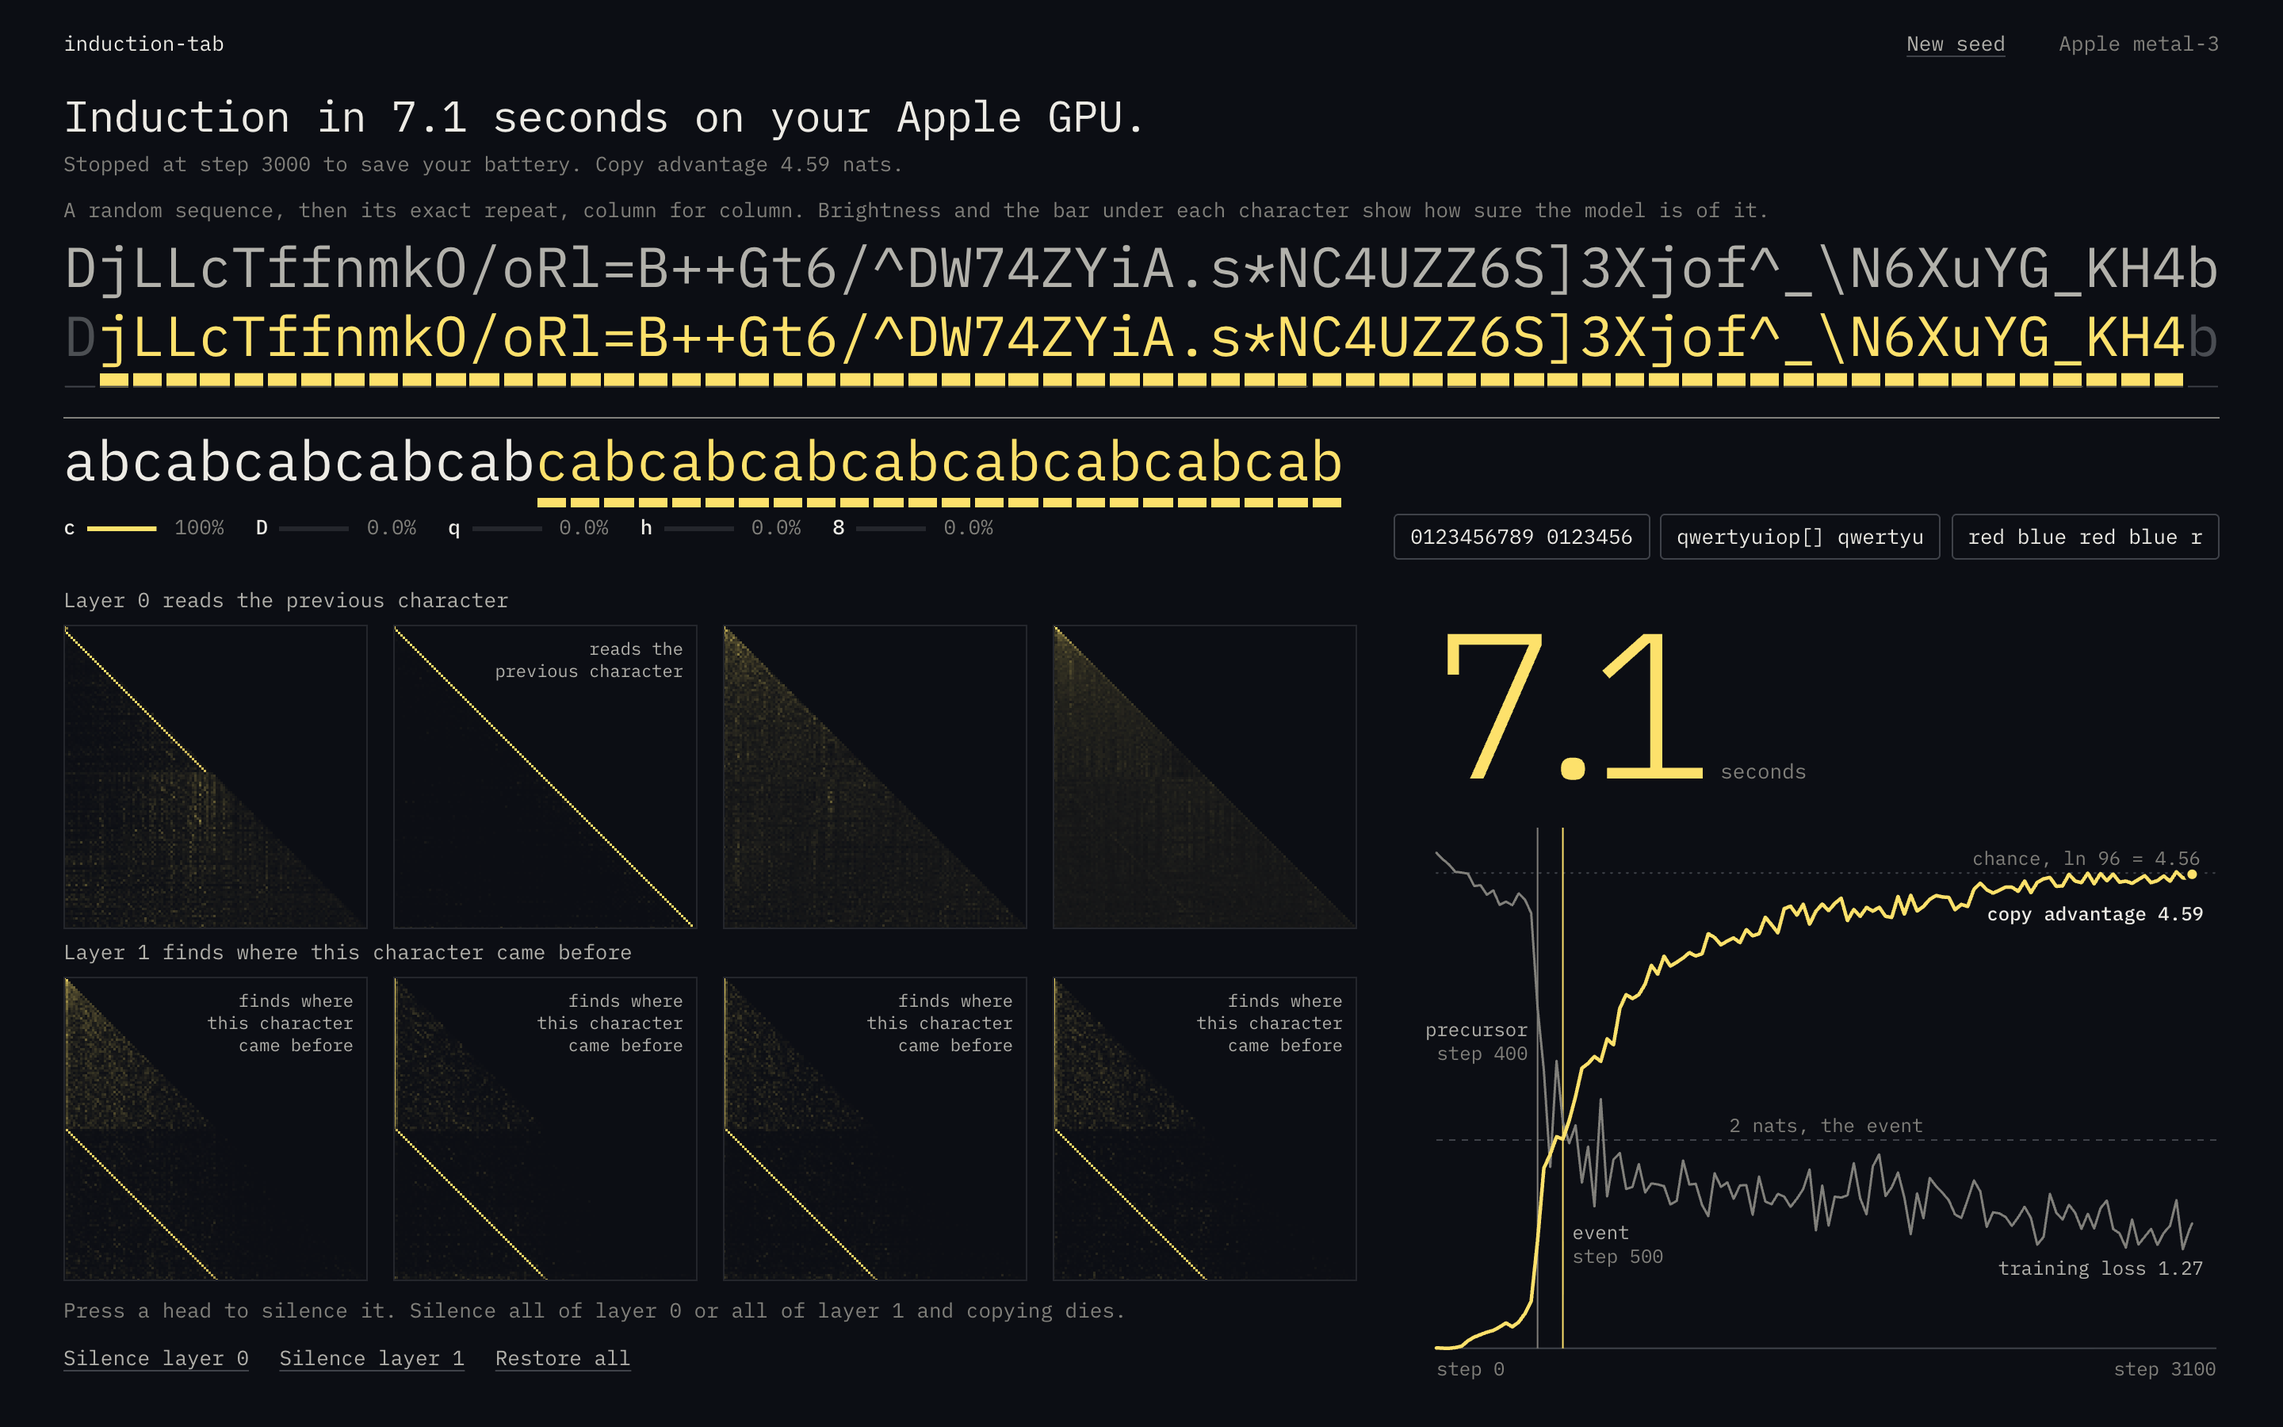
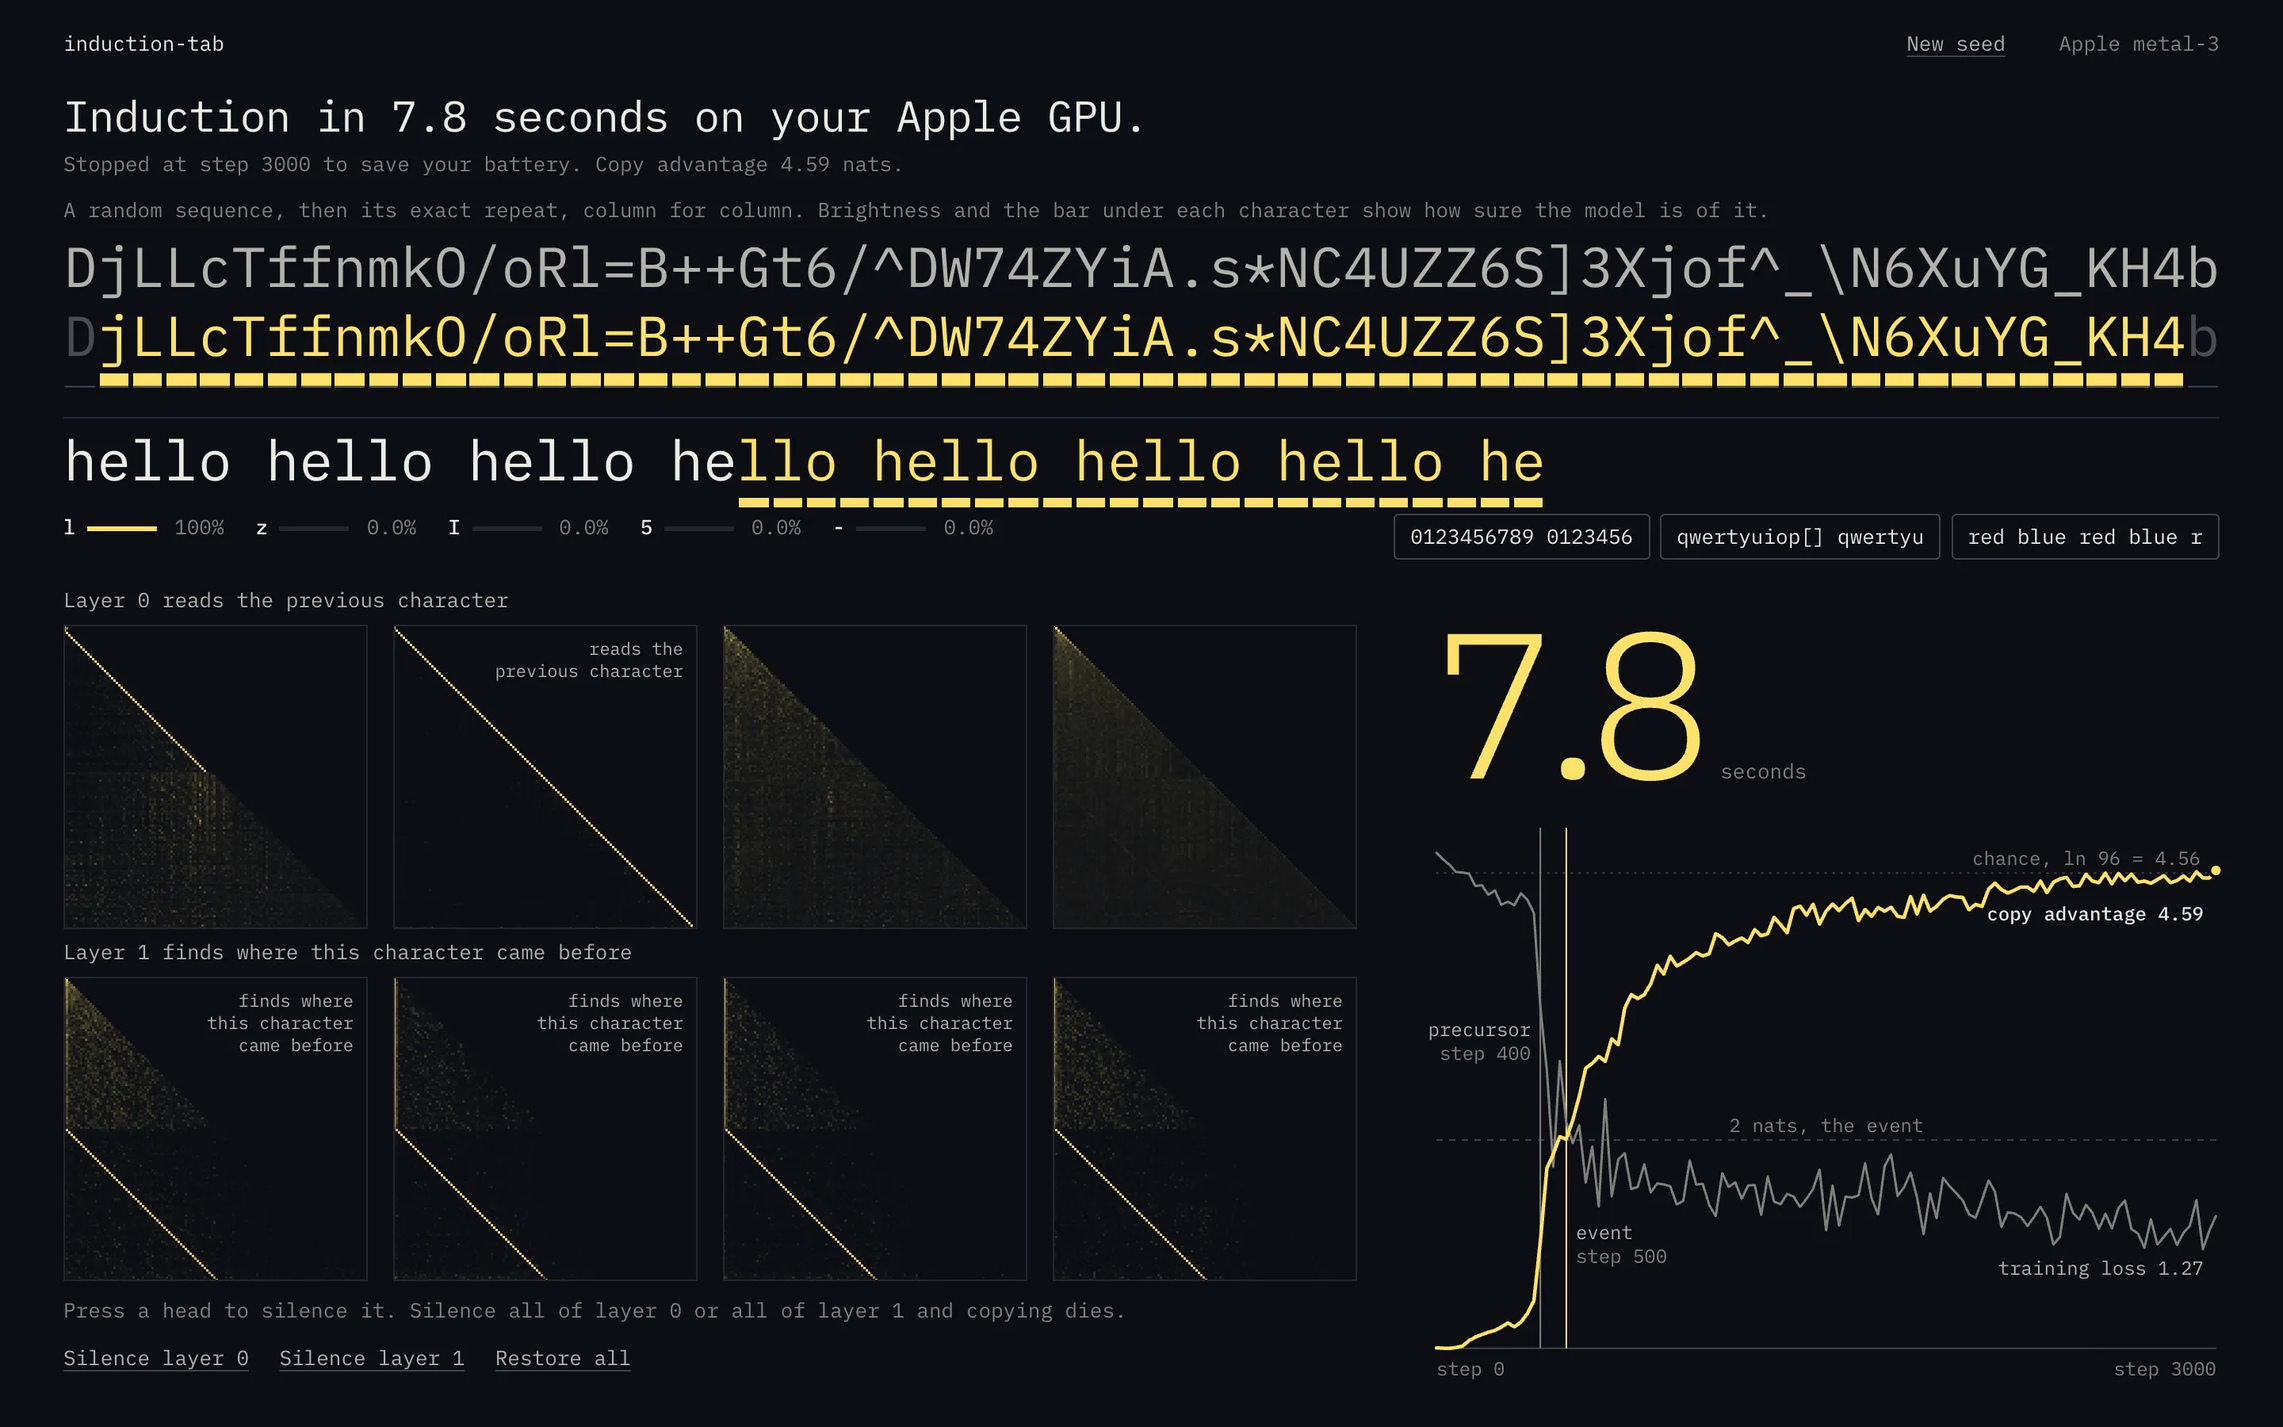
Fresh hero captures from the live page, site write-up, note what the novelty file predates

diff --git a/site/writeup.md b/site/writeup.md
@@ -1,0 +1,72 @@
+# Watch a transformer learn to copy in a browser tab
+
+[Open the tab](https://abhaymettu.github.io/induction-tab/) and press Start. The page trains a two-layer transformer while you watch, with no ML library and nothing to install, because the forward pass, the backward pass and AdamW are hand-written WGSL running on your GPU. It trains only on random characters repeating at random periods, so the one thing to learn is that characters repeat.
+
+For the first few hundred steps the model has learned nothing. Then three things happen close together. The second copy of a random row lights up as the model starts predicting characters it has seen once. A head in layer 0 draws a line just under the diagonal of its attention map, because it reads the previous character, and heads in layer 1 draw a parallel line lower down, where they find this character's earlier copy. That is the induction circuit from Olsson et al., [In-context Learning and Induction Heads](https://transformer-circuits.pub/2022/in-context-learning-and-induction-heads/index.html). And the copy advantage, the loss on the first pass through a repeated random sequence minus the loss on the second, reaches 2 nats on two consecutive evals, which is the event Gunner Levi Howe defined in [arXiv 2609.19000](https://arxiv.org/abs/2609.19000).
+
+Then you can type at it. Type something that repeats and the model carries on, so `abcabcabcabcab` gives `cabcabc`. Press a head to silence it. Silence all of layer 0 or all of layer 1 and copying dies.
+
+I wanted the transition to be something you can watch and poke, instead of a plot. A run is short enough to repeat with another seed, and you can silence a head as soon as its line appears.
+
+## How long it takes
+
+On an M4 Pro in Chrome, seeds 1 to 5 reach the event in a median of 4.9 s with drawing off. A run you watch also draws, so its clock reads higher. The real page with drawing on, beside another GPU job, has a median of 8.7 s, or 5.8 s on each seed's best round, and I have no reading on an idle GPU. The picture above is one watched run with another training job on the same Mac. I only measured an M4 Pro and SwiftShader, so I make no claim about other GPUs, Safari, Firefox or real phones. A browser with no WebGPU plays a recording of a real run.
+
+A tab doesn't beat native here. On the same machine and config PyTorch on MPS takes 5.5 ms per step against 10.3 ms for this trainer. The tab trades that speed for needing nothing installed.
+
+## Checking it against PyTorch
+
+With the same weights and batches for 20 steps, on five configurations including the tab's own, the worst per-tensor gradient difference is about 1.1e-6 in relative L2. Then the tab's model ran 64 seeds both ways, one on Metal and the other PyTorch on a CPU, and both reach the same event step and the same anchor step on 64 of 64 seeds, compared at evals 25 steps apart. The anchor is Howe's precursor, the first eval where a first-layer head reaches a previous-token score of 0.10. Those runs stop at the event, so they say nothing about training after it.
+
+All 64 seeds fire, at a median of step 475. Two controls, a single layer and a model that never sees a repeat, ran 8 seeds for 6000 steps each with zero events.
+
+Copy advantage does not measure copying alone. A model that expects repeats guesses wrong on characters it has not seen, so its first pass climbs above chance, and on the tab's model at the event a median 30 percent of the advantage comes from that rise.
+
+Other browser demos train through formation too, [TheoremPath's Induction Heads Lab](https://theorempath.com/demo/induction-heads-lab) and [gama's Induction](https://github.com/pariharshyamu/gama) among them, both on the CPU or without a stated GPU backend. [TabGPT](https://github.com/jbingen/tabgpt) and [webgpu-llm](https://github.com/toprakdeviren/webgpu-llm) also write training kernels by hand in WGSL. This one adds hand-written WGSL on your GPU for this transition, agreement with PyTorch to the same event step, and the study below, and I did not find that combination within my search coverage.
+
+## What sets the onset
+
+Once the trainer checked out I used Howe's event and anchor to study what sets the onset, on a smaller model, width 64 and context 64, for cost. Arms ran 64 seeds unless noted, under three plans in the repo ([first](research/PREREG.md), [second](research/PREREG-2.md), [third](research/PREREG-3.md)). Everything below is in steps, because time per step depends on model size.
+
+Random characters, each sequence tiled at a random period, reach the event at a median of step 575. Howe's language, a synthetic one in which each character has a few likely successors, takes 1025 when tiled. Under Howe's clone rule, which copies the start of a sequence once at a random offset, it takes 7500, with 12 of 16 seeds fired by step 8000. Random characters under that rule fired on 0 of 16.
+
+Those arms also differ in repeat probability and period range, so the third plan changed one factor at a time. On Howe's language with the rest fixed, tiling fires on 16 of 16 seeds at a median of 1025, and the clone rule on 2 of 16 by step 8000. The repeat rule is the largest single-factor contrast I can bound. Period range and language under the clone rule leave one side with no median, so I don't rank them.
+
+Training on random repeats isn't new. [shaikabdul185-arch](https://github.com/shaikabdul185-arch/induction-heads-from-scratch), [xanderchinxyz](https://github.com/xanderchinxyz/forming-induction-heads) and gama do it too, and Zucchet et al. ([2505.17863](https://arxiv.org/abs/2505.17863)) found that repetition can greatly speed up the emergence of sparse attention, in theory and on an in-context associative recall task. The result here is the attribution, one factor at a time, on one model.
+
+## Tying weights delays the event
+
+On random-repeat data, at equal depth, tying weights delayed the event. I write arms as (layers, blocks), where a block is one set of weights, so (8,1) is the same block applied 8 times. The delay holds at both learning rates I tested at depths 2 to 4, with 64 seeds per arm.
+
+| Time ratio, one block against untied | Depth 2 | Depth 3 | Depth 4 |
+|---|---|---|---|
+| lr 3e-3, censored log-normal fit | 1.55 | 2.31 | 3.27 |
+| lr 3e-3, ratio of Kaplan-Meier medians | 1.52 | 2.17 | 2.81 |
+| lr 1e-3, censored log-normal fit | 1.55 | 2.09 | 4.07 |
+| lr 1e-3, ratio of Kaplan-Meier medians | 1.55 | 2.06 | 4.04 |
+
+The plan preregistered the fit, and the two estimates disagree where a few runs stall. Across the 55 ratio intervals I read, at a Bonferroni level of 0.05/55 per interval, the lowest bound on tying is 1.26, so it stays above 1.
+
+I did not find this delay reported within my search coverage. The closest work finds looped models earlier than a dense model, on other tasks, and I don't claim a contradiction with Kapl et al. ([2610.31421](https://arxiv.org/abs/2610.31421)) or Sesodia et al. ([2610.24135](https://arxiv.org/abs/2610.24135)). I also did not separate effective step size from structure, so I claim the delay at these depths, learning rates and data, and no mechanism.
+
+(8,1) is its own case. It fires later, 8 of 8 by step 16000 at a median of 7150, with no prefix signature at the event. The prefix score, also from Olsson et al., stays at or below 0.089 there, where every other arm in every file reads at least 0.27. These runs stop at the event, so this rests on one eval per run and says nothing about what forms later. It's exploratory, on 8 seeds, and I don't explain it.
+
+## One draw at Howe's own setup
+
+Config A is Howe's setup, on this trainer. Seed 1 reaches the event at step 6225, inside the range of 5650 to 7400 across Howe's fleet of 30 seeds, with the anchor at a fraction of 0.847 of the event step against Howe's median of 0.844, computed from the per-seed results in [Howe's repository](https://github.com/gunnerhowe/Research). That is one draw. It isn't a rerun of the fleet and it says nothing about the fleet's spread. My bigram table differs from Howe's, because Howe's table cannot be rebuilt without PyTorch's generator.
+
+## What did not hold
+
+Howe's fleet puts the anchor at a steady fraction of the time to the event, inside a frozen envelope of 0.735 to 0.901. Three of my arms at depths 2 to 4 fell just under it. A second plan predicted that the anchor's distance from chance caused the miss and tested a rescaled anchor. Under it (2,1) at context 64 reads 0.903 against 0.901, so the prediction failed literally on one arm.
+
+Eval spacing explains part of one miss instead. Rerun at 5-step evals on its own seeds, (2,2) at lr 3e-3 reads 0.748 against 0.727 at 25-step, and the other two arms were not rerun that way. Spacing does not explain Howe's curriculum on the small model at 0.628, or (8,2) at 0.683. Those are still open.
+
+The tab's own model on Howe's language and clone rule fired on 0 of 8 seeds by step 8000, so the tab's timing belongs to its own curriculum. I stopped at 8000, so this doesn't say it never would.
+
+## What I did not verify
+
+All 64 seeds fire on the tab's model on an M4 Pro, which doesn't rule out a rare stall, and the small model does stall, with 5 of 64 and 2 of 64 seeds showing no event by step 6000 at width 64 and context 128. The page says so when this happens and offers a new seed. Where I say I did not find something, that means within the searches logged in [research/NOVELTY-2.md](research/NOVELTY-2.md). The two closest demos are low visibility and turned up late, so others may exist.
+
+These are small models, the deepest at 12 layers, and nothing here transfers by itself to a large model or to natural language data. The plans are dated in git and not externally registered, and about 70% of the first plan's 3e-3 arms had already run, unread, when it was committed. The public history leaves out a private working log and copies of third-party papers and of Howe's per-seed results, with commit dates kept. The [README](README.md#rerun-every-number) lists the departures from plan and has the command and output file behind these numbers.
+
+The paper is in the repo and has not been submitted anywhere.

diff --git a/README.md b/README.md
@@ -7,10 +7,10 @@ Press Start and watch a transformer learn to copy on your own GPU, then type int
 <picture>
   <source media="(prefers-color-scheme: dark)" srcset="docs/hero-dark.webp">
   <source media="(prefers-color-scheme: light)" srcset="docs/hero-light.webp">
-  <img alt="The page after training. The repeated row of random characters is lit, every layer 1 attention map shows a sharp line in its lower half, and a typed abcabc prompt continues itself." src="docs/hero-light.webp">
+  <img alt="The page after training. The repeated row of random characters is lit, every layer 1 attention map shows a sharp line in its lower half, and a typed hello hello hello prompt continues itself." src="docs/hero-light.webp">
 </picture>
 
-<sub>Seed 1 after 3000 steps on an M4 Pro. Another job was using the GPU during this capture, so its clock reads 6.9 s. The benchmark for this seed, with drawing off, is 5.2 s.</sub>
+<sub>Seed 1 after 3000 steps on an M4 Pro. Another training job was running on the same Mac during this capture, so its clock reads 7.8 s in the dark image and 8.3 s in the light one. The benchmark for this seed, with drawing off, is 5.2 s.</sub>
 
 ## What you see
 
@@ -201,7 +201,7 @@ SEEDS=2-30 npm run config-a
 
 ## What did not work
 
-- **Howe's curriculum at this size.** The tab's own model on Howe's language and clone rule fired on 0 of 8 seeds by step 8000, so the tab trains on random repeats. We stopped at 8000, so this does not say it never would. On the study model it does fire, late, at 7500 against 575.
+- **Howe's curriculum at this size.** The tab's own model on Howe's language and clone rule fired on 0 of 8 seeds by step 8000, where the tab's own curriculum fires by step 700 on all 64. We stopped at 8000, so this does not say it never would. On the study model it does fire, late, at 7500 against 575.
 - **"The first we could find."** An early draft claimed this. A second search found TheoremPath's lab and gama, so the claim is gone.
 - **The second plan's explanation of the gap.** Distance from chance did not explain the first plan's miss, and the rescaled anchor missed on one arm of its own.
 

diff --git a/AGENTS.md b/AGENTS.md
@@ -60,7 +60,7 @@ GPU tools need Google Chrome. `npm run parity` calls `.venv/bin/python` by that 
 - Only `channel: 'chrome'` reaches Metal when headless. Bundled Chromium gets SwiftShader, which runs but says nothing about speed.
 - `configHash` in `src/engine/bench.js` hashes `configs/tab.json` resolved against the defaults in `layout.js`. Changing either one invalidates every row in `records.json`. The same defaults live in `configs/defaults.json` for the Python side, so change them together.
 - Tile 32 in the GEMM kernel is the measured choice. It beat 8 and 16 on Metal, and smaller tiles ran up to 6 times slower. Measure before you change it.
-- Timing measured while something else uses the GPU reads high. The clock in `docs/hero-*.webp` is an example, 6.9 s against 5.2 s clean. Take `bench`, `breakdown`, and record logs on an idle GPU.
+- Timing measured while something else runs on the Mac reads high. The clock in `docs/hero-*.webp` is an example, 7.8 s and 8.3 s against 5.2 s clean. Take `bench`, `breakdown`, and record logs on an idle GPU.
 - The page fetches `results/study-summary.json` and `records.json` at load. Moving either one blanks a section of the page without an error.
 - `dynamics.mjs` and `train.py` append to their output file and skip seeds it already holds. Use a fresh path for a clean rerun.
 - `npm run bench` and `npm run breakdown` print only. Redirect to `results/` by hand so one machine's numbers do not overwrite another's by accident.

diff --git a/research/NOVELTY-2.md b/research/NOVELTY-2.md
@@ -1,5 +1,7 @@
 # Novelty audit, second pass: induction-tab
 
+Note added later the same day. This file is kept as written. Its tying ratios (1.55, 2.20, 2.83) come from before the censored fit was corrected, and the current ones are 1.55, 2.31, 3.27. It also gives Howe's T as 128, which is the probe length; config A trains at T=256. The README and `research/UPSTREAM-SPEC.md` hold the current figures. The search coverage and prior-work verdicts stand.
+
 Written 2026-11-02 about 02:45 CST by an adversarial reviewer, after the first results. It does not redo `research/NOVELTY.md`. It attacks five new claims and closes that file's residual list. Coverage is 13 search calls (one over the 12 budget, see the search log) plus direct reads of every source quoted below. "Not found" means not found within this coverage, never that the thing does not exist.
 
 **The main result: this pass overturns the recommended wording in `NOVELTY.md` item 1.** "The first we could find" for a tab that trains through the phase change and lets the viewer ablate heads is no longer true. Two existing browser demos train through formation live, and one of them (TheoremPath) also has head ablation. None of the eight named residuals does either.
